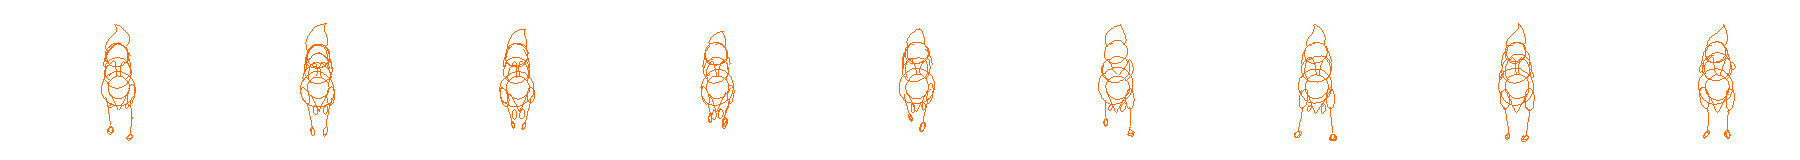
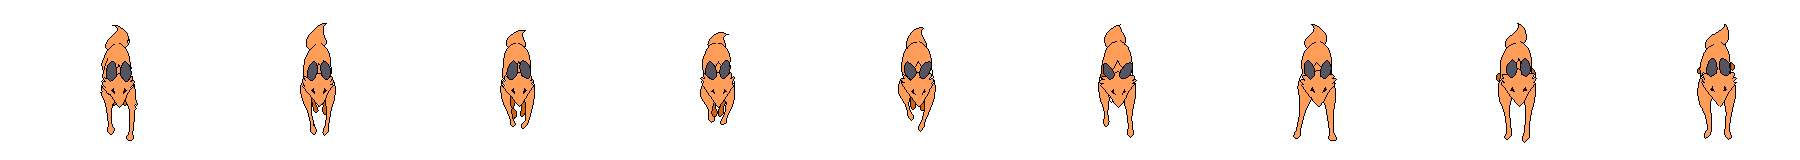
Novos assets corrida yawara

diff --git a/src/components/Yawara.cpp b/src/components/Yawara.cpp
@@ -49,16 +49,16 @@
 #define YWR_RUN_U_FRAME		9
 #define YWR_RUN_L			"assets/img/yawara/yawara_run_left.png"
 #define YWR_RUN_L_FRAME		9
-#define YWR_RUN_R			"assets/img/yawara/yawara_walk_right.png"
-#define YWR_RUN_R_FRAME		12
+#define YWR_RUN_R			"assets/img/yawara/yawara_run_right.png"
+#define YWR_RUN_R_FRAME		9
 #define YWR_RUN_DL			"assets/img/yawara/yawara_run_down_left.png"
 #define YWR_RUN_DL_FRAME	9
-#define YWR_RUN_DR			"assets/img/yawara/yawara_idle_down_right.png"
-#define YWR_RUN_DR_FRAME	1
+#define YWR_RUN_DR			"assets/img/yawara/yawara_run_down_right.png"
+#define YWR_RUN_DR_FRAME	9
 #define YWR_RUN_UL			"assets/img/yawara/yawara_run_up_left.png"
 #define YWR_RUN_UL_FRAME	9
-#define YWR_RUN_UR			"assets/img/yawara/yawara_idle_up_right.png"
-#define YWR_RUN_UR_FRAME	1
+#define YWR_RUN_UR			"assets/img/yawara/yawara_run_up_right.png"
+#define YWR_RUN_UR_FRAME	9
 
 #define YWR_DEATH		"assets/penguin/img/penguindeath.png"
 #define YWR_DEATH_FRAME	5
